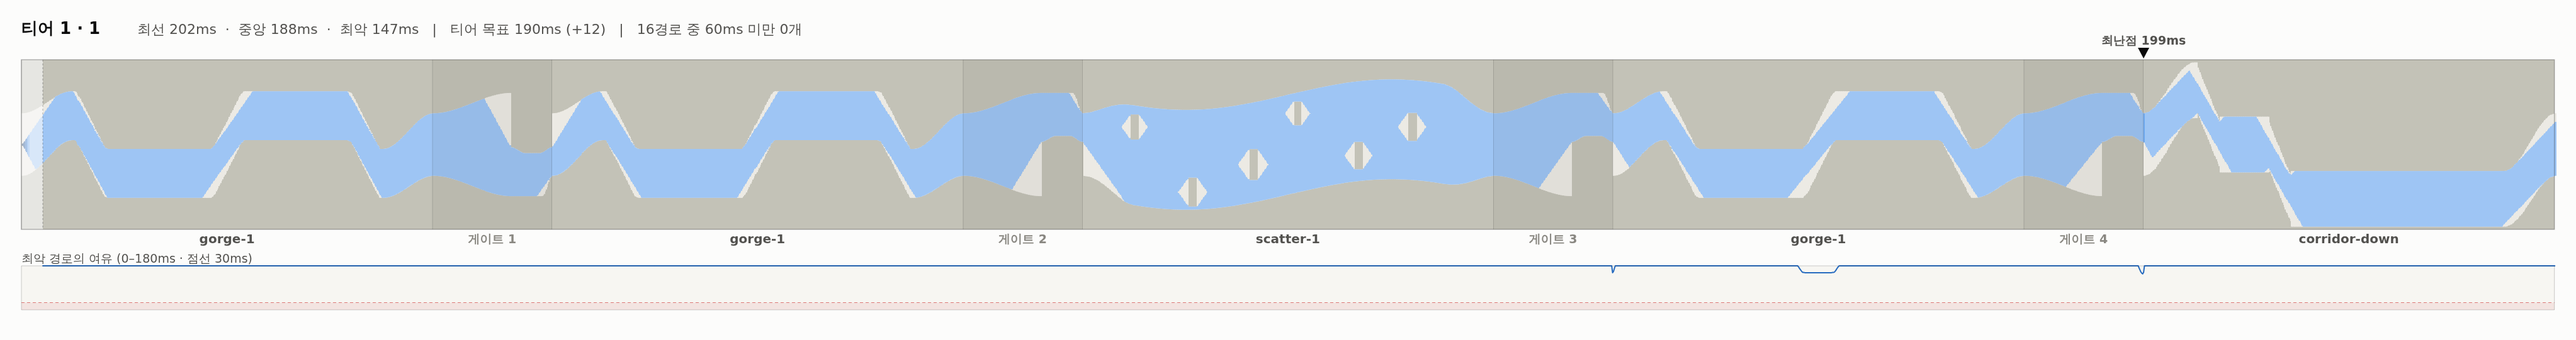
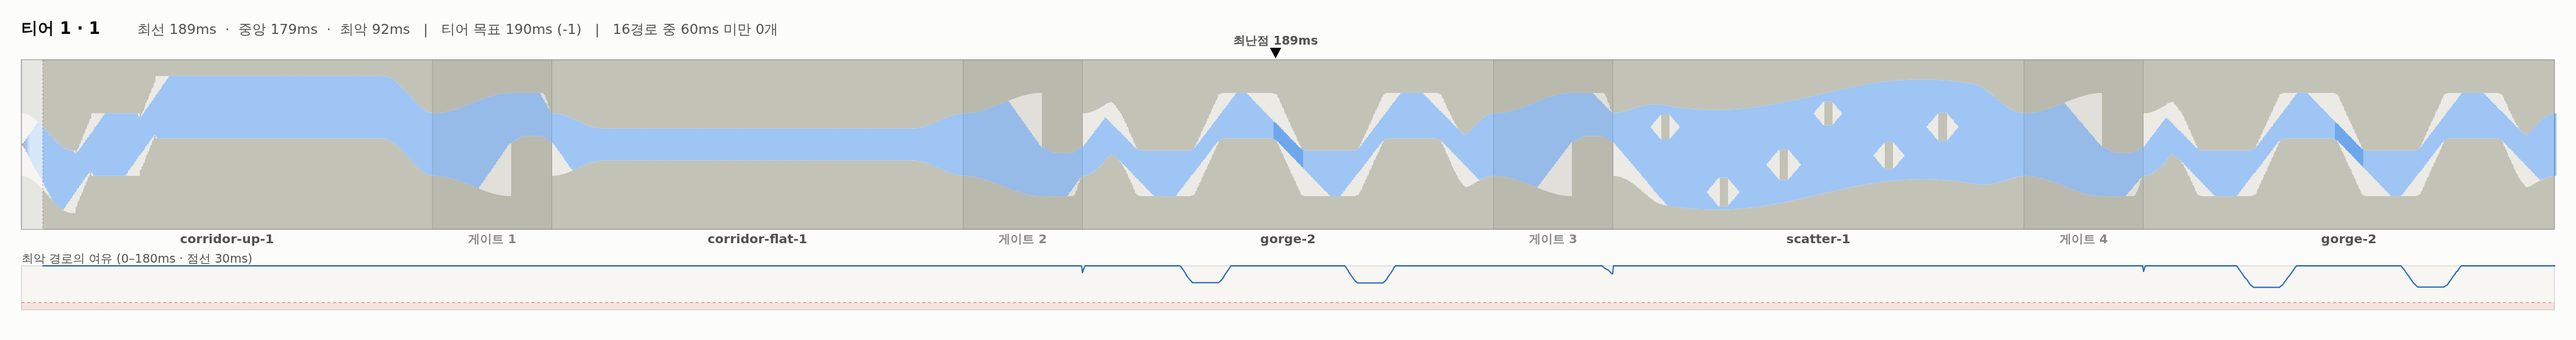
feat(wave-runner): 회랑을 드리프트 × 난이도 9종으로 — 섹터 풀 12 → 18
회랑은 유형 하나가 축 셋을 서로 다른 방향으로 묻는 유일한 자리인데(평탄 각도 − ·
상승 편향 + · 하강 편향 −), 난이도 번호가 드리프트에 용접돼 있어 그 셋이 티어마다
하나씩만 물어지고 있었다 — 티어 1 은 상승만, 티어 2~3 은 하강만, 평탄은 티어 4 에서만.

- **회랑 3종 → 9종.** 난이도는 폭과 오르내리는 높이로 가른다. 둘을 함께 움직이는
  이유는 월드 크기다 — 중앙선이 `50 ± rise/2` 를 오가므로 `rise + width` 가 94 를
  넘으면 통로가 월드 밖으로 나간다

    corridor-up-1/2/3     폭 34/32/30  높이 44/54/64  최소여유 126/98/69ms  편향+ 139/148/158
    corridor-down-1/2/3   폭 30/28/30  높이 54/54/64  최소여유 115/87/62ms  편향− 58/63/81
    corridor-flat-1/2/3   폭 22/18/14  높이 —         최소여유 107/84/61ms  각도− 166/131/95

  9칸 전부 도달 가능한 빌드를 하나도 막지 않고, 드리프트마다 난이도가 단조로 내려가며,
  축 선호가 난이도와 함께 강해진다. `sector-probe` 의 편향 행이 `+ + + − − − = = =` 로
  블록으로 갈린다

두 번 되돌렸다

- **티어 3 에 지속형이 들어왔다.** 첫 재큐레이션에서 티어 3 이 "성격까지 완화" 로
  떨어지며 370단위 코스를 집었다 — 0.5.2 에서 티어 4 에만 준 "더 오래 좁다" 가
  흐려진다. 완화 순서를 **성격 → 지속**으로 바꿨다(유형 구성이 더 무른 선호다).
  티어 3 의 최난 구간이 370 → 41단위가 됐다
- **±3 에서 티어 2 와 3 이 158ms 동률이 됐다.** 티어 1·2 가 −28ms 드리프트 후보를
  집었기 때문이다. 제한을 30 → 20ms 로 조였다. 섹터가 전부 공정해진 뒤로 후보가
  900/900 남아 조일 여유가 있었다

결과

- 수제 섹터 풀 12 → **18개**, 섹터 커버리지 **18/18**, 섹터 공정성 18개 전부 통과
- ±3 곡선 183/169/154/129 → **187/169/158/118** (단조)
- 함정 0 · 코스 중복 4/5 이상 0쌍 · 전 경로 900/900

대가

±2 에서 티어 1 과 2 의 간격이 4ms 로 눌렸다(185 대 181). 드리프트를 조이면서 티어 1 이
목표 200ms 에 닿지 못하게 된 탓이다. 처음 만나는 조건이 ±2 이지만 해금 뒤에 곡선이
무너지는 것이 더 나쁘다고 보고 ±3 단조를 택했다.

**시드가 다시 전부 바뀌어 저장된 스테이지 최고 기록은 무효다.**

검증: verify PASS (lint · build · playtest 9 shots · 오류 0) · 섹터 공정성 18/18 ·
3축 양날 유지 · 솔버 교차 검증 126조합 모순 0.
[…]

diff --git a/projects/wave-runner/app/src/game/sectors.ts b/projects/wave-runner/app/src/game/sectors.ts
@@ -232,20 +232,47 @@ export interface CorridorSpec {
  * **상승 한계의 최악은 0.62** 인데, (각도 −3, 편향 +3)은 존재하므로 **하강 한계의 최악은
  * 0.397** 이다. 하강 회랑이 감당해야 하는 뒤처짐이 훨씬 크다.
  */
-export const CORRIDOR_SPEC: Record<number, CorridorSpec> = {
-  // 오르는 회랑과 내려가는 회랑은 같은 형상을 쓴다. 난이도 번호가 드리프트에 용접돼
-  // 있어(1=상승 · 2=하강 · 3=평탄) 여기서 난이도를 가를 자리가 사실상 없다 — 회랑의
-  // 난이도 표기가 명목뿐인 것은 별도의 알려진 문제다.
-  1: { width: 30, grade: 1.3, rise: 64, segments: 2, recover: 55 },
-  2: { width: 30, grade: 1.3, rise: 64, segments: 2, recover: 55 },
-  // 평탄한 회랑에는 경사가 없다. 좁은 관을 탭 연타로 유지하는 것 자체가 시험이다.
-  3: { width: 16, grade: 1.3, rise: 0, segments: 1, recover: 0 }
+export type CorridorDrift = "up" | "down" | "flat";
+
+/**
+ * 회랑 9종 — **드리프트 × 난이도**.
+ *
+ * 0.5.4 까지는 난이도 번호가 드리프트에 용접돼 있었다(1=상승 · 2=하강 · 3=평탄).
+ * 그래서 사양이 약속한 세 질문(평탄은 각도 − · 상승은 편향 + · 하강은 편향 −)이
+ * **티어마다 한 종류씩만** 물어졌다 — 티어 1 에서는 상승만, 티어 2~3 에서는 하강만,
+ * 평탄은 티어 4 에서만. 축을 가르는 자리가 난이도에 묶여 낭비되고 있었다.
+ *
+ * 둘을 떼어 9칸으로 만들면 어느 티어에서도 세 질문을 다 물을 수 있고, 수제 섹터 풀이
+ * 12개에서 18개로 늘어 큐레이션의 다양성 여지도 함께 커진다.
+ *
+ * 난이도는 **폭과 오르내리는 높이**로 가른다. 둘을 함께 움직이는 이유는 월드 크기다 —
+ * 중앙선이 `50 ± rise/2` 를 오가므로 `rise + width` 가 94 를 넘으면 통로가 월드 밖으로
+ * 나간다. 쉬운 칸은 넓고 짧게, 어려운 칸은 좁고 길게.
+ *
+ * 값은 전부 솔버로 골랐다 — 9칸 모두 도달 가능한 빌드를 하나도 막지 않으면서
+ * (`sector-fairness.ts`) 난이도가 드리프트마다 단조로 내려간다.
+ */
+export const CORRIDOR_SPEC: Record<string, CorridorSpec> = {
+  //                     폭   경사   높이  토막 회복      최소 여유   축 선호
+  "up-1":   { width: 34, grade: 1.3, rise: 44, segments: 2, recover: 55 }, // 126ms  편향+ 139
+  "up-2":   { width: 32, grade: 1.3, rise: 54, segments: 2, recover: 55 }, //  98ms  편향+ 148
+  "up-3":   { width: 30, grade: 1.3, rise: 64, segments: 2, recover: 55 }, //  69ms  편향+ 158
+  "down-1": { width: 30, grade: 1.3, rise: 54, segments: 2, recover: 55 }, // 115ms  편향− 58
+  "down-2": { width: 28, grade: 1.3, rise: 54, segments: 2, recover: 55 }, //  87ms  편향− 63
+  "down-3": { width: 30, grade: 1.3, rise: 64, segments: 2, recover: 55 }, //  62ms  편향− 81
+  // 평탄한 회랑에는 경사가 없다. 좁은 관을 탭 연타로 유지하는 것 자체가 시험이고,
+  // 큰 각도는 진폭을 키워 불리하다 — 그래서 각도가 양날이 되는 유일한 자리다.
+  "flat-1": { width: 22, grade: 1.3, rise: 0, segments: 1, recover: 0 }, // 107ms  각도− 166
+  "flat-2": { width: 18, grade: 1.3, rise: 0, segments: 1, recover: 0 }, //  84ms  각도− 131
+  "flat-3": { width: 14, grade: 1.3, rise: 0, segments: 1, recover: 0 } //   61ms  각도−  95
 };
+
+export const corridorSpecKey = (drift: CorridorDrift, difficulty: number) => `${drift}-${difficulty}`;
 
 export function makeCorridor(
   difficulty: number,
-  drift: "up" | "down" | "flat",
-  spec: CorridorSpec = CORRIDOR_SPEC[difficulty]
+  drift: CorridorDrift,
+  spec: CorridorSpec = CORRIDOR_SPEC[corridorSpecKey(drift, difficulty)]
 ): Sector {
   const { width, grade, rise, segments, recover } = spec;
   const span = drift === "flat" ? 0 : rise * (drift === "up" ? -1 : 1);
@@ -281,7 +308,7 @@ export function makeCorridor(
   }
   const nodes = withCuffs(raw);
   return {
-    id: `corridor-${drift}`,
+    id: `corridor-${drift}-${difficulty}`,
     type: "corridor",
     difficulty,
     favors: drift === "flat" ? "각도 −" : drift === "up" ? "편향 + (상승)" : "편향 − (하강)",
@@ -291,7 +318,7 @@ export function makeCorridor(
   };
 }
 
-const corridor = (difficulty: number, drift: "up" | "down" | "flat") => makeCorridor(difficulty, drift);
+const corridor = (difficulty: number, drift: CorridorDrift) => makeCorridor(difficulty, drift);
 
 /**
  * 산개 — 넓은 통로에 흩뿌려진 장애물. 경로를 찾아 엮는 구간이라
@@ -351,13 +378,25 @@ function pulse(difficulty: number, tuned: number, label: string): Sector {
   };
 }
 
-/** 수제 섹터 12개 — 4유형 × 3. 런타임 생성은 3단계 사안이므로 여기서는 조합만 한다. */
+/**
+ * 수제 섹터 18개.
+ *
+ * 협곡·산개·맥동은 3난이도씩이고, 회랑만 **드리프트 × 난이도로 9종**이다. 회랑은
+ * 유형 하나가 축 세 개를 서로 다른 방향으로 묻는 유일한 자리라(평탄 각도 − · 상승
+ * 편향 + · 하강 편향 −), 그 셋이 난이도에 묶이면 티어마다 한 질문씩만 물어진다.
+ */
 export const SECTORS: Sector[] = [
   gorge(1),
   gorge(2),
   gorge(3),
   corridor(1, "up"),
+  corridor(2, "up"),
+  corridor(3, "up"),
+  corridor(1, "down"),
   corridor(2, "down"),
+  corridor(3, "down"),
+  corridor(1, "flat"),
+  corridor(2, "flat"),
   corridor(3, "flat"),
   scatter(1),
   scatter(2),

diff --git a/projects/wave-runner/tests/verify/curate-stages.ts b/projects/wave-runner/tests/verify/curate-stages.ts
@@ -61,14 +61,18 @@
  * 차이를 `AXIS_CAP_DRIFT_MS` 안으로 묶는다.
  *
  * **⑧ 섹터 커버리지를 동점 처리에 넣었다.** 목표 근접도가 비슷한 후보들 사이에서는
- * 아직 안 쓴 섹터를 데려오는 쪽을 고른다. 목표를 희생하지 않으면서 12개 섹터를 고루 쓴다.
+ * 아직 안 쓴 섹터를 데려오는 쪽을 고른다. 목표를 희생하지 않으면서 섹터를 고루 쓴다.
  *
  * ## 완화 순서
  *
- * 조건을 다 만족하는 후보가 3개에 못 미치면 **지속 → 성격 → 밴드 → 드리프트** 순으로
+ * 조건을 다 만족하는 후보가 3개에 못 미치면 **성격 → 지속 → 밴드 → 드리프트** 순으로
  * 푼다. **공정성과 차별화는 절대 풀지 않는다.** 함정을 되살리거나 같은 코스를 다시
  * 내느니 목표 여유에서 벗어나는 편이 낫다. 드리프트를 맨 뒤에 두는 것은 ±3 역전이
  * 0.5.2 에서 고친 바로 그 문제이기 때문이다.
+ *
+ * **지속을 성격보다 뒤에 푸는 이유**(0.5.5 에서 순서를 바꿨다): 지속 규칙은 티어 1~3 에
+ * 뾰족함을, 티어 4 에 지속을 요구한다. 먼저 풀면 티어 3 에 370단위짜리 지속형 코스가
+ * 들어와 **티어 4 의 정체성이 흐려진다.** 성격(유형 구성)은 그보다 무른 선호다.
  *
  * 현재 설정에서는 네 티어 모두 완화 없이 채워진다.
  *
@@ -99,8 +103,12 @@ const SLACK_BAND_MS = 25;
  * 제안을 바꾸므로 같은 코스도 다른 질문이 되는데, 이 값을 묶지 않으면 한 스테이지가
  * ±2 에서 143ms · ±3 에서 200ms 가 되어 해금하는 순간 쉬워진다. 실제로 그래서
  * 티어 곡선이 ±3 에서 역전돼 있었다.
+ *
+ * 0.5.5 에서 30 → 20 으로 조였다. 30 에서는 티어 1·2 가 −28ms 짜리 후보를 잡아
+ * ±3 곡선에서 티어 2 와 3 이 158ms 로 동률이 됐다 — 역전은 아니어도 두 티어가
+ * 구분되지 않는다. 섹터가 전부 공정해진 뒤로 후보가 900/900 남으므로 조일 여유가 있다.
  */
-const AXIS_CAP_DRIFT_MS = 30;
+const AXIS_CAP_DRIFT_MS = 20;
 /*
  * 목표 사다리(`targetSlackMs`)와 최난 구간 요구(`PEAK_RUN_RULE`)는 `./tiers` 에 있다.
  * 점검 도구가 같은 표를 읽어야 "편차" 열이 거짓말을 하지 않는다.
@@ -111,7 +119,7 @@ const AXIS_CAP_DRIFT_MS = 30;
  */
 /**
  * 목표 근접도가 이만큼 안에서 비슷하면, 아직 안 쓴 섹터를 데려오는 후보를 먼저 고른다.
- * 난이도를 희생하지 않으면서 12개 섹터를 고루 쓰기 위한 동점 처리다.
+ * 난이도를 희생하지 않으면서 섹터를 고루 쓰기 위한 동점 처리다.
  */
 const COVERAGE_TIE_MS = 16;
 /** 출발 정착 구간 — 출발 집합이 점 하나라 좁게 나오는 자리이고 난이도가 아니다. */
@@ -327,8 +335,8 @@ for (let tier = 1; tier <= MAX_TIER; tier += 1) {
   // 완화 순서 — 공정성과 차별화는 여기 없다. 절대 풀지 않는다.
   const relaxations: Array<[string, Gates]> = [
     ["완화 없음", ALL_GATES],
-    ["지속 완화", { ...ALL_GATES, peak: false }],
-    ["성격까지 완화", { ...ALL_GATES, peak: false, character: false }],
+    ["성격 완화", { ...ALL_GATES, character: false }],
+    ["지속까지 완화", { ...ALL_GATES, character: false, peak: false }],
     ["밴드까지 완화", { peak: false, character: false, band: false, drift: true }],
     ["드리프트까지 완화", { peak: false, character: false, band: false, drift: false }]
   ];

diff --git a/projects/wave-runner/app/src/game/generate.ts b/projects/wave-runner/app/src/game/generate.ts
@@ -1,7 +1,7 @@
 /**
  * 절차적 섹터 생성 — 3단계의 본체.
  *
- * 2단계까지는 수제 섹터 12개를 조합했다. 여기서는 형상을 매개변수로 만들고,
+ * 2단계까지는 수제 섹터를 조합하기만 했다. 여기서는 형상을 매개변수로 만들고,
  * 후보를 **솔버로 채점해** 목표 난이도에 가장 가까운 것만 내보낸다.
  * 솔버가 있어서 "생성했는데 통과 불가"가 원천적으로 걸러지고, 난이도를
  * 눈대중이 아니라 **생존 회랑 폭**이라는 수치로 겨냥할 수 있다.

diff --git a/projects/wave-runner/app/src/game/course.ts b/projects/wave-runner/app/src/game/course.ts
@@ -119,7 +119,7 @@ export function stageSeed(tier: number, stageNo: number): number {
 }
 
 /**
- * 스테이지 코스. **수제 섹터 12개 전부**를 풀로 쓴다.
+ * 스테이지 코스. **수제 섹터 18개 전부**를 풀로 쓴다.
  *
  * Endless 와 달리 여기서는 해금 상태(`maxSectorDifficulty`)를 보지 않는다.
  * 보게 두면 확장 섹터 풀을 사는 순간 같은 번호의 스테이지가 다른 코스가 되어

diff --git a/projects/wave-runner/notes/course-difficulty/2026-09-16-5.md b/projects/wave-runner/notes/course-difficulty/2026-09-16-5.md
@@ -1,0 +1,66 @@
+# 회랑 9종 — 드리프트와 난이도를 떼어내다
+
+## 결론
+
+**수제 섹터 풀이 12개에서 18개가 됐고, 큐레이션이 18개를 전부 쓴다.** 회랑이 유형 하나로
+축 셋을 서로 다른 방향으로 묻는 유일한 자리인데, 그 셋이 난이도 번호에 묶여 있어
+**티어마다 한 질문씩만** 물어지고 있었다.
+
+## 무엇이 묶여 있었나
+
+0.5.4 까지 `corridor(1,"up") · corridor(2,"down") · corridor(3,"flat")` 이었다.
+난이도가 곧 드리프트였으므로:
+
+- 티어 1 의 회랑은 **상승만** — 편향 + 만 물었다
+- 티어 2~3 의 회랑은 **하강만** — 편향 − 만 물었다
+- **평탄은 티어 4 에서만** — 각도 − 는 마지막 티어에서 한 번
+
+사양은 "평탄은 각도 −, 상승은 편향 +, 하강은 편향 −" 라고 세 질문을 적어 놨는데,
+플레이어는 티어마다 그중 하나만 만났다. 축을 가르는 자리가 난이도에 묶여 낭비된 것이다.
+
+## 9칸을 어떻게 채웠나
+
+난이도는 **폭과 오르내리는 높이**로 가른다. 둘을 함께 움직이는 이유는 월드 크기다 —
+중앙선이 `50 ± rise/2` 를 오가므로 `rise + width` 가 94 를 넘으면 통로가 월드 밖으로
+나간다. 쉬운 칸은 넓고 짧게, 어려운 칸은 좁고 길게.
+
+| | 폭 | 높이 | 최소 여유 | 축 선호 |
+|---|---|---|---|---|
+| corridor-up-1 / 2 / 3 | 34 / 32 / 30 | 44 / 54 / 64 | 126 / 98 / 69ms | 편향 + 139 / 148 / 158 |
+| corridor-down-1 / 2 / 3 | 30 / 28 / 30 | 54 / 54 / 64 | 115 / 87 / 62ms | 편향 − 58 / 63 / 81 |
+| corridor-flat-1 / 2 / 3 | 22 / 18 / 14 | — | 107 / 84 / 61ms | 각도 − 166 / 131 / 95 |
+
+9칸 전부 도달 가능한 빌드를 하나도 막지 않고, 드리프트마다 난이도가 단조로 내려가며,
+**축 선호가 난이도와 함께 강해진다** — 어려운 회랑일수록 더 강하게 묻는다.
+
+`sector-probe` 의 편향 행이 이제 `+ + + − − − = = =` 로 읽힌다. 상승 셋, 하강 셋,
+평탄 셋이 블록으로 갈린다.
+
+## 두 번 되돌렸다
+
+**① 티어 3 에 지속형이 들어왔다.** 첫 재큐레이션에서 티어 3 이 "성격까지 완화" 로
+떨어지며 370단위짜리 코스를 집었다. 0.5.2 에서 티어 4 에만 부여한 "더 오래 좁다" 라는
+정체성이 흐려진다. **완화 순서를 성격 → 지속으로 바꿨다** — 유형 구성이 지속보다 무른
+선호다. 바꾸니 티어 3 의 최난 구간이 370 → 41단위가 됐다.
+
+**② ±3 에서 티어 2 와 3 이 동률이 됐다**(둘 다 158ms). 티어 1·2 가 −28ms 짜리 해금
+드리프트를 가진 후보를 집었기 때문이다. 제한을 30 → 20ms 로 조여 해결했다. 섹터가 전부
+공정해진 뒤로 후보가 900/900 남아 조일 여유가 있었다.
+
+## 대가
+
+**±2 에서 티어 1 과 2 의 간격이 4ms 로 눌렸다**(185 대 181). 드리프트를 조이면서 티어 1 이
+목표 200ms 에 닿지 못하게 된 탓이다. ±3 단조를 되찾는 쪽을 택했다 — 처음 만나는 조건이
+±2 이지만, **해금 뒤에 곡선이 무너지는 것이 더 나쁘다**고 봤다. 되돌리려면 티어 1 의
+목표를 190 근처로 낮추거나 드리프트를 25 로 두고 ±3 을 다시 봐야 한다.
+
+## 숫자
+
+| 지표 | 0.5.4 | 0.5.5 |
+|---|---|---|
+| 수제 섹터 풀 | 12개 | **18개** |
+| 섹터 커버리지 | 12/12 | **18/18** |
+| 섹터 공정성(모든 빌드 통과) | 12개 통과 | **18개 통과** |
+| ±2 곡선 | 196/181/158/132 | 185/181/158/135 |
+| ±3 곡선 | 183/169/154/129 | **187/169/158/118** |
+| 함정 · 코스 중복 | 0 · 0쌍 | 0 · 0쌍 |

diff --git a/projects/wave-runner/changelog.md b/projects/wave-runner/changelog.md
@@ -311,3 +311,54 @@ Endless 코스 재현성 수정.
 - **회랑의 난이도 표기가 명목뿐이다.** 번호가 드리프트에 용접돼 있어(1=상승 · 2=하강 ·
   3=평탄) 상승과 하강이 같은 형상을 쓴다. 드리프트와 난이도를 떼어내면 회랑 3종이
   9종이 되고, 티어마다 다른 편향 질문을 물을 수 있다
+
+## 0.5.5 — 2026-09-16
+
+회랑의 드리프트와 난이도를 분리했다. 수제 섹터 풀이 **12개에서 18개로** 늘었고,
+큐레이션이 **18개를 전부** 쓴다.
+
+- **회랑 3종 → 9종 (드리프트 × 난이도).** 0.5.4 까지는 난이도 번호가 드리프트에 용접돼
+  있었다(1=상승 · 2=하강 · 3=평탄). 그래서 사양이 약속한 세 질문(평탄 각도 − · 상승
+  편향 + · 하강 편향 −)이 **티어마다 한 종류씩만** 물어졌다 — 티어 1 에서는 상승만,
+  티어 2~3 에서는 하강만, 평탄은 티어 4 에서만. 축을 가르는 자리가 난이도에 묶여
+  낭비되고 있었다
+- **난이도는 폭과 오르내리는 높이로 가른다.** 둘을 함께 움직이는 이유는 월드 크기다 —
+  중앙선이 `50 ± rise/2` 를 오가므로 `rise + width` 가 94 를 넘으면 통로가 월드 밖으로
+  나간다. 쉬운 칸은 넓고 짧게, 어려운 칸은 좁고 길게
+
+  | | 폭 | 높이 | 최소 여유 | 축 선호 |
+  |---|---|---|---|---|
+  | corridor-up-1 / 2 / 3 | 34 / 32 / 30 | 44 / 54 / 64 | 126 / 98 / 69ms | 편향 + 139 / 148 / 158 |
+  | corridor-down-1 / 2 / 3 | 30 / 28 / 30 | 54 / 54 / 64 | 115 / 87 / 62ms | 편향 − 58 / 63 / 81 |
+  | corridor-flat-1 / 2 / 3 | 22 / 18 / 14 | — | 107 / 84 / 61ms | 각도 − 166 / 131 / 95 |
+
+  값은 전부 솔버로 골랐다 — 9칸 모두 도달 가능한 빌드를 하나도 막지 않으면서 드리프트마다
+  난이도가 단조로 내려간다. 축 선호도 난이도와 함께 강해진다
+
+- **완화 순서를 바꿨다 — 지속을 성격보다 뒤에 푼다.** 첫 시도에서 티어 3 이 "성격까지
+  완화" 로 떨어지며 **370단위짜리 지속형 코스**를 집었다. 0.5.2 에서 티어 4 에만 부여한
+  "더 오래 좁다" 라는 정체성이 흐려진다. 성격(유형 구성)이 그보다 무른 선호다
+- **해금 드리프트 제한을 30 → 20ms 로 조였다.** 30 에서는 티어 1·2 가 −28ms 짜리 후보를
+  집어 ±3 곡선에서 티어 2 와 3 이 158ms 동률이 됐다. 섹터가 전부 공정해진 뒤로 후보가
+  900/900 남으므로 조일 여유가 생겼다
+
+재큐레이션 결과
+
+| 지표 | 0.5.4 | 0.5.5 |
+|---|---|---|
+| 수제 섹터 풀 | 12개 | **18개** |
+| 섹터 커버리지 | 12/12 | **18/18** |
+| ±2 곡선 | 196/181/158/132 | 185/181/158/135 |
+| ±3 곡선 | 183/169/154/129 | **187/169/158/118** |
+| 함정 · 코스 중복 | 0 · 0쌍 | 0 · 0쌍 |
+| 섹터 공정성 | 12개 통과 | **18개 통과** |
+
+**시드가 다시 전부 바뀌었으므로 저장된 스테이지 최고 기록은 무효다.**
+
+남은 것
+
+- **±2 에서 티어 1 과 2 의 간격이 4ms 다**(185 대 181). 드리프트를 20ms 로 조이면서
+  티어 1 이 목표 200ms 에 닿지 못하게 된 대가다. ±3 단조를 되찾는 쪽을 택했다 —
+  처음 만나는 조건이 ±2 이지만, 해금 뒤 곡선이 무너지는 것이 더 나쁘다고 봤다
+- **`gorge-2` 가 60자리 중 18회(30%)로 여전히 편중돼 있다.** 회랑이 9종으로 쪼개지면서
+  개별 회랑의 지분이 낮아진 반사 효과이기도 하다

diff --git a/projects/wave-runner/eval.md b/projects/wave-runner/eval.md
@@ -24,7 +24,7 @@ pnpm exec tsx projects/wave-runner/tests/verify/curate-stages.ts        # 스테
 | 타입·빌드·런처 전체 빌드 | 통과 |
 | 선행 가시 1.2초 | 360×640에서 1.34초, 세로 가시 100% |
 | **솔버 신뢰도** | 84개 조합에서 오토파일럿과 모순 0. 통과 불가 사례를 실제로 잡아냄 |
-| **섹터 단독 주행** | 섹터 12개 × 도달 가능한 모든 빌드(합 0, ±2 19개 · ±3 37개) 단독 주행. **12개 전부 통과 불가 0**, 최소 여유 56~307ms (`tests/verify/sector-fairness.ts`) |
+| **섹터 단독 주행** | 섹터 18개 × 도달 가능한 모든 빌드(합 0, ±2 19개 · ±3 37개) 단독 주행. **18개 전부 통과 불가 0**, 최소 여유 56~307ms (`tests/verify/sector-fairness.ts`) |
 | **생성기 겨냥** | 4유형 × 난이도 4단계 전부 통과 가능. 목표 폭 30→9에 대해 실측 여유 354ms→97ms |
 | **축이 양날인가** | 각도·속도·편향 3축 모두 섹터 유형에 따라 부호가 뒤집힘 |
 | **전 경로 통과 가능성** | 12개 스테이지 × 16경로 — 94~100% 통과, 최선 경로 여유 122~198ms |
@@ -70,12 +70,13 @@ pnpm exec tsx projects/wave-runner/tests/verify/curate-stages.ts        # 스테
 
 - **음악과 배속 동기화.** 리듬 격자는 들어갔지만 오디오는 없다. 속도 축이 배속이므로 음악을 붙이려면 오디오를 같이 늘여야 한다.
 - **계정 동기화.** 영구 해금이 `localStorage` + 내보내기/가져오기에 머물러 있다.
-- **런 초반 3섹터는 생성되지 않는다.** 공장에 줄 시간이 없는 자리라 수제 섹터로 **고정했다**(0.3.1). 재현성은 그래서 성립하지만 첫 30초의 다양성은 수제 12개 안에서만 나온다.
+- **런 초반 3섹터는 생성되지 않는다.** 공장에 줄 시간이 없는 자리라 수제 섹터로 **고정했다**(0.3.1). 재현성은 그래서 성립하지만 첫 30초의 다양성은 수제 18개 안에서만 나온다.
 - **Endless 도입부 3섹터 고정.** 재현성을 위해 그 자리를 수제 섹터로 못박은 대가다. 난이도 1.0~1.26 구간에는 유형별 후보가 하나뿐이라 변주가 유형 순환에서만 온다.
 - **1단계 중단 판정.** 여전히 미수행이다.
-- **회랑의 난이도 표기가 명목뿐이다.** 번호가 드리프트에 용접돼 있어(1=상승 · 2=하강 ·
-  3=평탄) 상승과 하강이 같은 형상을 쓴다. 떼어내면 회랑 3종이 9종이 되고 티어마다 다른
-  편향 질문을 물을 수 있다.
+- **±2 에서 티어 1 과 2 의 간격이 4ms 다**(185 대 181). 해금 드리프트를 20ms 로 조이면서
+  티어 1 이 목표 200ms 에 닿지 못하게 된 대가다.
+- **런 초반 섹터 다양성은 여전히 수제 풀 안에서만 나온다** — 풀이 12개에서 18개로 늘어
+  나아졌지만, 생성기가 쓰이지 않는 자리라는 사실은 그대로다.
 - **게임 전체가 관대해졌다.** 0.5.2 에서 사다리를 올린 대가다. 티어 4 는 지속 길이로 메웠지만
   티어 1~3 은 여유가 그대로 넓어졌다 — 사람이 실제로 어디서 막히는지(`meta.attempts`)를 보고
   다시 조여야 한다.

diff --git a/projects/wave-runner/spec.md b/projects/wave-runner/spec.md
@@ -45,14 +45,14 @@
 
 ## 섹터 4유형 (`sectors.ts`)
 
-수제 12개(4유형 × 3). 절차 생성은 3단계 사안이므로 여기서는 조합만 한다.
+수제 18개. 협곡·산개·맥동은 3난이도씩이고 **회랑만 드리프트 × 난이도로 9종**이다 — 회랑은 유형 하나가 축 셋을 서로 다른 방향으로 묻는 유일한 자리라(평탄 각도 − · 상승 편향 + · 하강 편향 −), 그 셋이 난이도에 묶이면 티어마다 한 질문씩만 물어진다. 0.5.5 이전이 그랬다.
 
-스테이지 코스는 해금 상태와 무관하게 **12개 전부**를 풀로 쓴다. 확장 섹터 풀 해금이 스테이지 코스까지 바꾸면 같은 번호의 스테이지가 다른 코스가 되어 큐레이션한 여유 수치가 그 즉시 다른 코스의 것이 된다. 해금은 Endless 생성기의 난이도 상한에만 걸린다.
+스테이지 코스는 해금 상태와 무관하게 **18개 전부**를 풀로 쓴다. 확장 섹터 풀 해금이 스테이지 코스까지 바꾸면 같은 번호의 스테이지가 다른 코스가 되어 큐레이션한 여유 수치가 그 즉시 다른 코스의 것이 된다. 해금은 Endless 생성기의 난이도 상한에만 걸린다.
 
 | 유형 | 형상 | 축을 가르는 방식 |
 |---|---|---|
 | **협곡** | 가파른 계단. 램프 기울기 1.05~1.35, 계단 3·5·7 | 램프에서 뒤처진 만큼을 통로 폭이 흡수한다 → **각도 +** |
-| **회랑** | 평탄한 좁은 관, 또는 경사를 두 토막으로 끊고 사이에 평탄한 회복 구간 | 평탄은 진폭이 커지는 **각도 −**, 상승은 **편향 +**, 하강은 **편향 −** |
+| **회랑** (9종) | 평탄한 좁은 관, 또는 경사를 두 토막으로 끊고 사이에 평탄한 회복 구간 | 평탄은 진폭이 커지는 **각도 −**, 상승은 **편향 +**, 하강은 **편향 −**. 세 방향 × 3난이도 |
 | **산개** | 넓은 통로에 흩뿌린 장애물 | 경로를 엮을 시간이 필요해 **속도 −** |
 | **맥동** | 주기 개폐 셔터. 위상은 목표 속도로 역산 | 도착 위상이 통과를 가른다 → **속도가 양날** |
 
